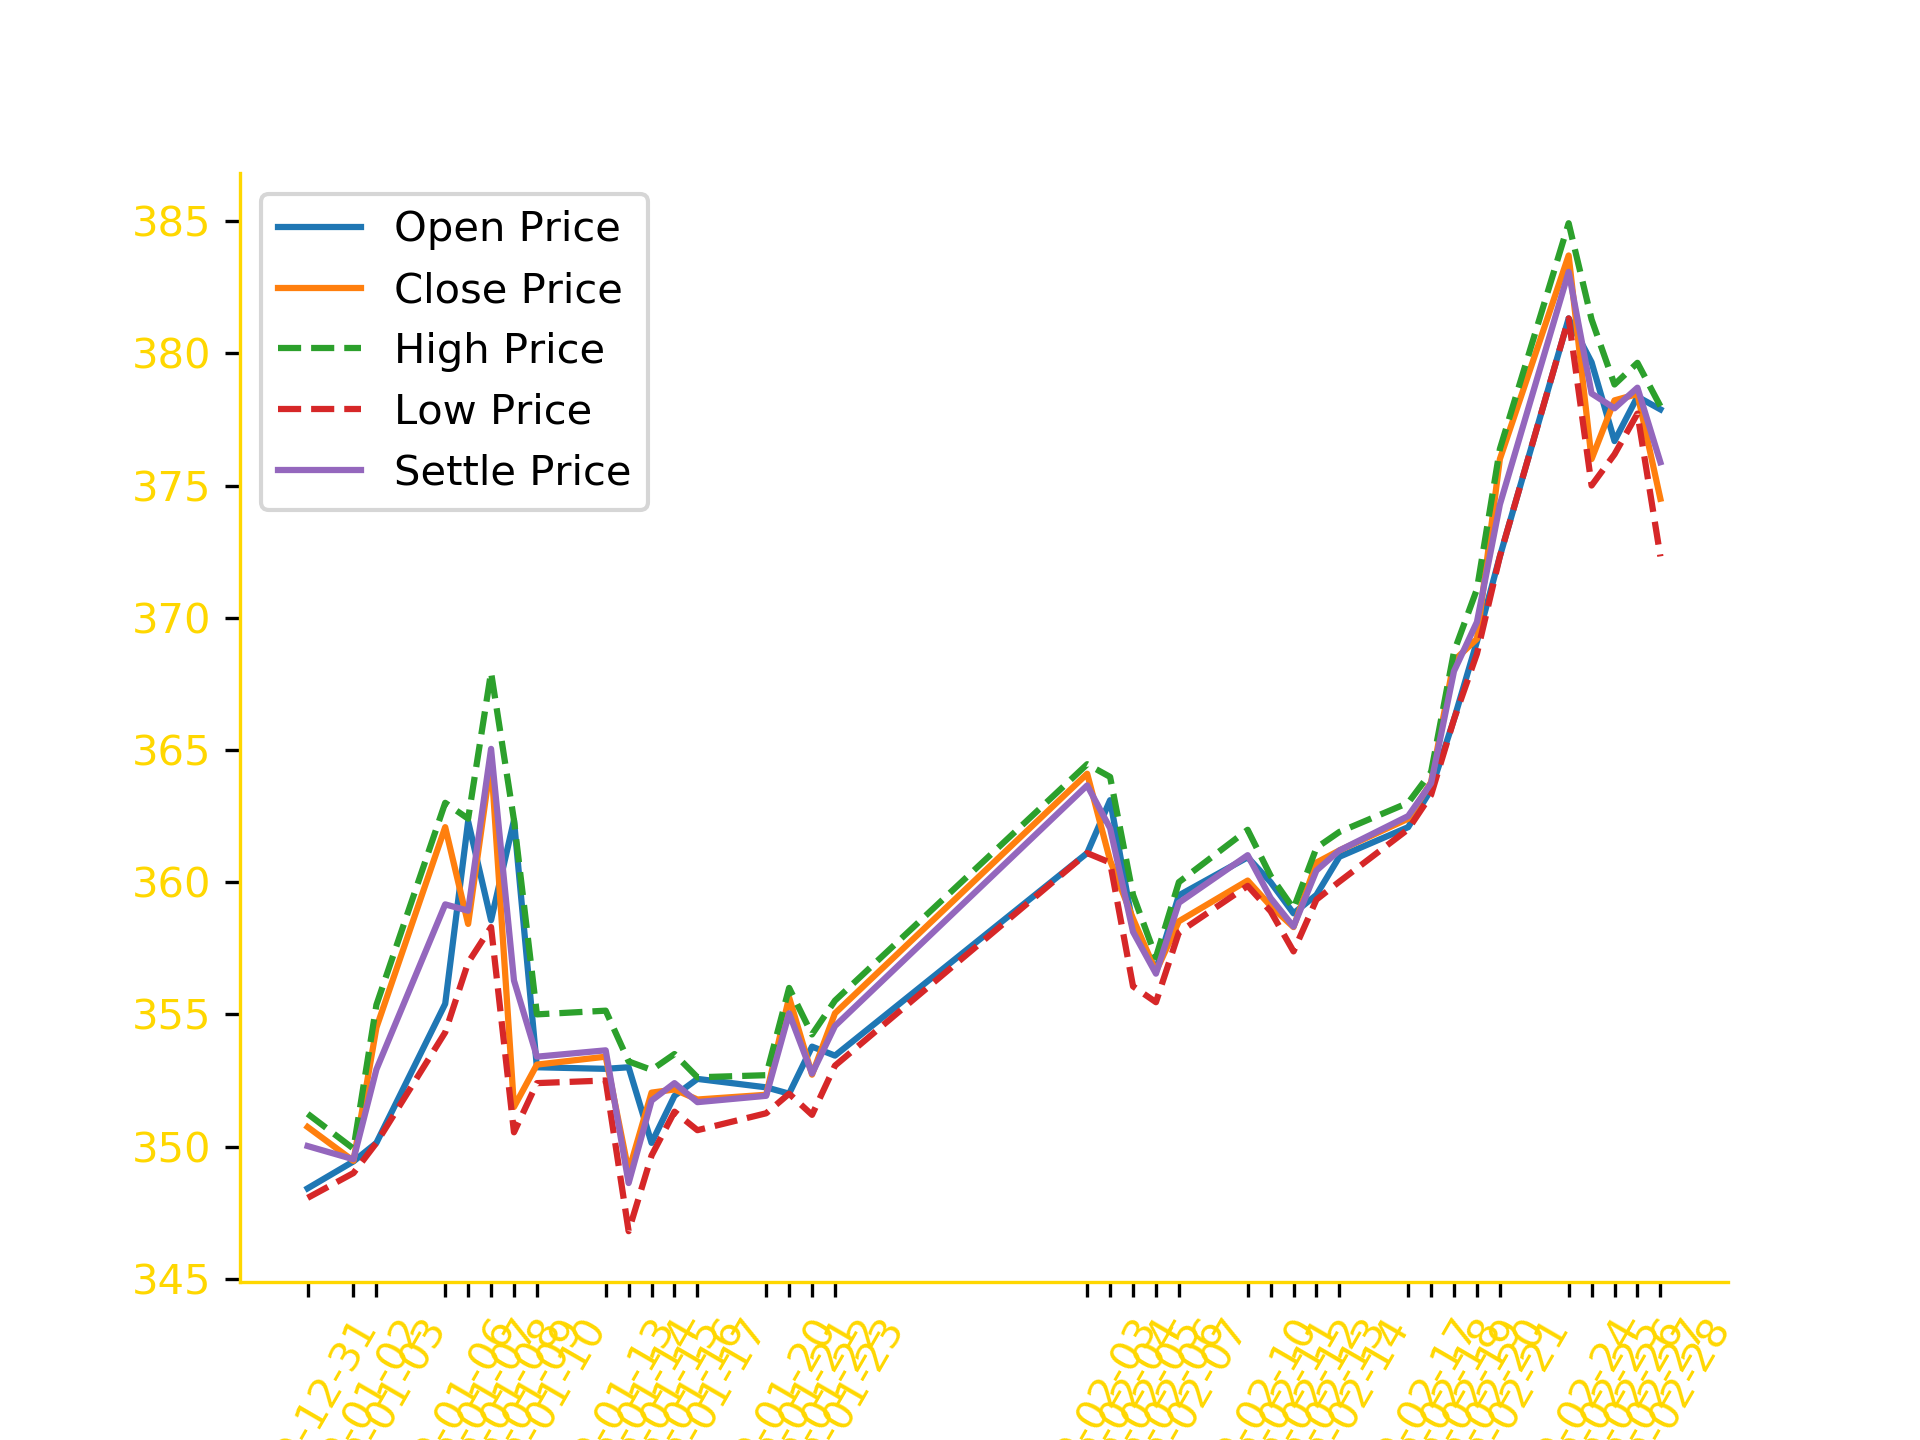
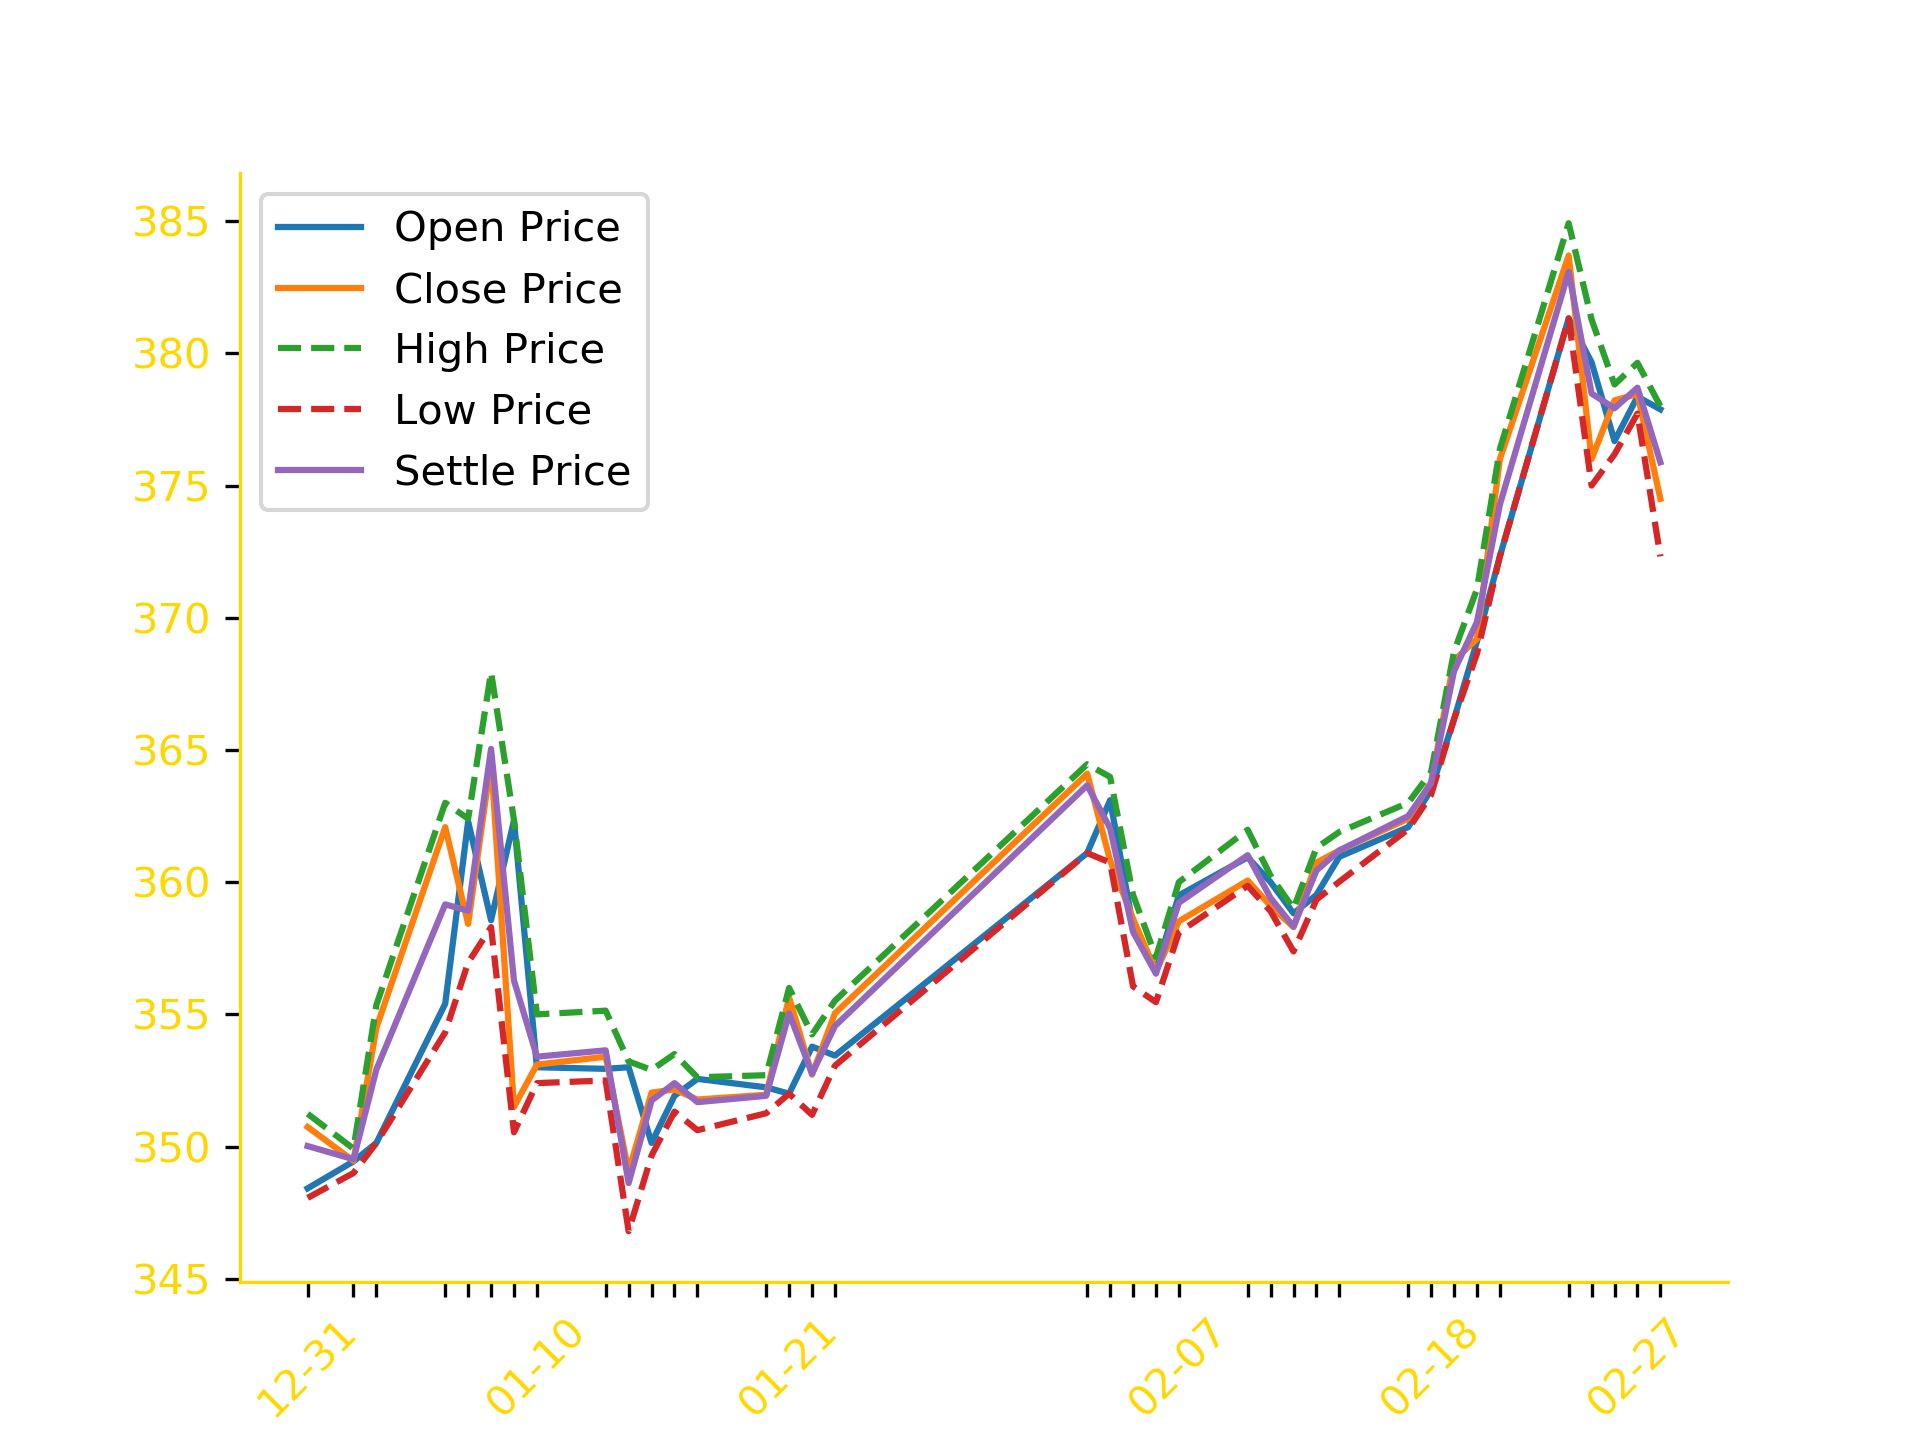
update plot

Changed region(s): [[0.5625, 0.9062, 0.9062, 1.0], [0.125, 0.9062, 0.4688, 1.0]]

diff --git a/EZproject001/EZsite001/financialanalysis.py b/EZproject001/EZsite001/financialanalysis.py
@@ -59,8 +59,20 @@ def plot_price(time, name):
     plt.plot(x, y_high, label="High Price", ls='--')
     plt.plot(x, y_low, label="Low Price", ls='--')
     plt.plot(x, y_settle, label="Settle Price")
-    # number of axis x and y
-    plt.xticks(x, color='gold', rotation='60')
+    # change axis value for longer than 1 month
+    if name == '2months' or name == '3months':
+        x_display = []
+        for index, value in enumerate(x):
+            if index % 7 == 0:
+                x_display.append(value.strftime('%m-%d'))
+            else:
+                x_display.append('')
+    else:
+        x_display = []
+        for index, value in enumerate(x):
+            x_display.append(value.strftime('%m-%d'))
+    # axis x and y
+    plt.xticks(x, x_display, color='gold', rotation='45')
     plt.yticks(color='gold')
     plt.legend()
     pwd = os.path.dirname(os.path.dirname(__file__))
